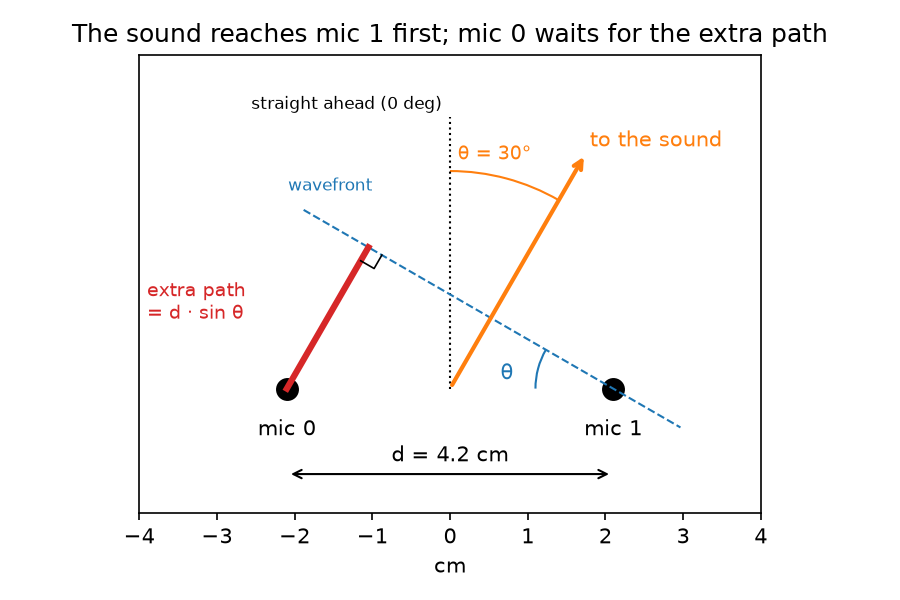
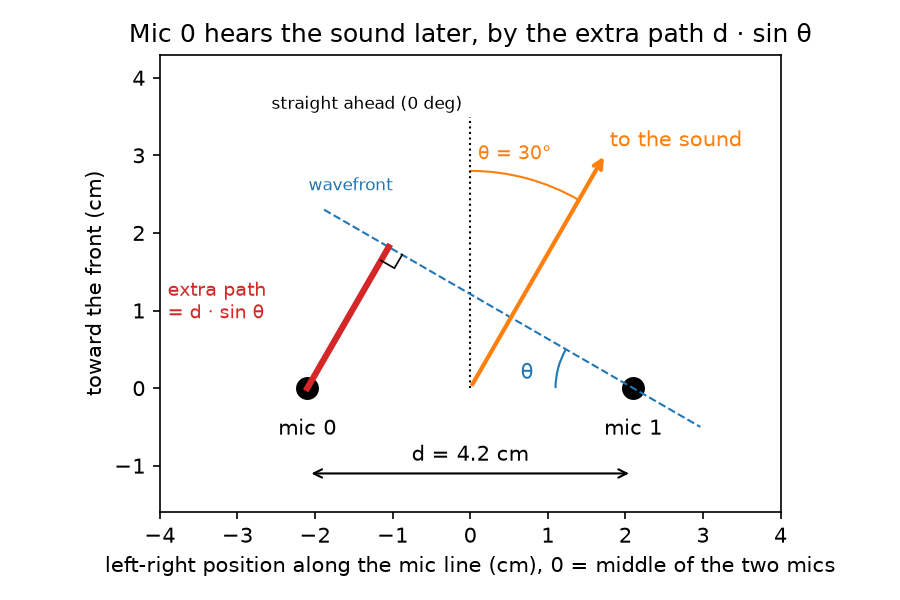
Put the key point in the step 1 figure titles
Aaron could not see what the sweep figure was saying. Titles now state
it: whole samples allow only 13 answers; error within ±60 deg drops from
8.3 to 0.5 deg (computed, not typed), worse toward the sides. Axis
labels say what x and y mean, ±60 deg is shaded, and the geometry figure
labels its axes as positions in cm. Section 4 heading states the result.

diff --git a/scripts/step1_two_mics.py b/scripts/step1_two_mics.py
@@ -69,12 +69,12 @@ def fig_geometry(path):
     corner = foot - s * direction
     ax.plot(*np.array([corner, corner + s * wave, foot + s * wave]).T, "k", lw=0.8)
     ax.text(-3.9, 0.9, "extra path\n= d · sin θ", color="C3", fontsize=9)
-    ax.set_title("The sound reaches mic 1 first; mic 0 waits for the extra path")
+    ax.set_title("Mic 0 hears the sound later, by the extra path d · sin θ")
     ax.set_aspect("equal")
     ax.set_xlim(-4, 4)
     ax.set_ylim(-1.6, 4.3)
-    ax.set_xlabel("cm")
-    ax.set_yticks([])
+    ax.set_xlabel("left-right position along the mic line (cm), 0 = middle of the two mics")
+    ax.set_ylabel("toward the front (cm)")
     fig.tight_layout()
     fig.savefig(path, dpi=150)
 
@@ -130,18 +130,30 @@ def fig_correlation(path):
 
 
 def fig_sweep(path, truth, whole, fine):
-    fig, (a, b) = plt.subplots(2, 1, figsize=(6, 6), sharex=True)
-    a.plot(truth, truth, "k:", label="perfect")
-    a.plot(truth, whole, "o-", ms=3, label="whole samples")
-    a.plot(truth, fine, "-", label="16x finer")
-    a.set_ylabel("estimated angle (deg)")
+    fig, (a, b) = plt.subplots(2, 1, figsize=(6, 7), sharex=True)
+    whole_label, fine_label = "delay every 20.8 us (whole samples)", "delay every 1.3 us (16x finer)"
+    a.plot(truth, truth, "k:", label="perfect answer")
+    a.plot(truth, whole, "o-", ms=3, label=whole_label)
+    a.plot(truth, fine, "-", label=fine_label)
+    a.set_ylabel("angle the mics report (deg)")
     a.legend(fontsize=8)
-    a.set_title("Two mics, 4.2 cm apart, 48 kHz, noise 20 dB below the sound")
-    b.plot(truth, np.abs(whole - truth), "o-", ms=3, label="whole samples")
-    b.plot(truth, np.abs(fine - truth), "-", label="16x finer")
-    b.set_xlabel("true angle (deg)")
+    a.set_title("Whole samples allow only 13 answers (the steps);\n16x finer follows the true angle",
+                fontsize=11)
+    for ax in (a, b):
+        ax.axvspan(-60, 60, color="grey", alpha=0.08)
+    b.plot(truth, np.abs(whole - truth), "o-", ms=3, label=whole_label)
+    b.plot(truth, np.abs(fine - truth), "-", label=fine_label)
+    b.text(0, 19, "within ±60 deg (grey)", ha="center", fontsize=8, color="grey")
+    b.set_xlabel("true angle of the sound, set in the simulation (deg)")
     b.set_ylabel("error (deg)")
-    b.legend(fontsize=8)
+    b.legend(fontsize=8, loc="upper center", bbox_to_anchor=(0.5, 0.84))
+    inner = np.abs(truth) <= 60
+    worst_whole = np.max(np.abs(whole - truth)[inner])
+    worst_fine = np.max(np.abs(fine - truth)[inner])
+    b.set_title(f"Error within ±60 deg: {worst_whole:.1f} → {worst_fine:.1f} deg; "
+                "both get worse toward the sides", fontsize=11)
+    fig.suptitle("Two mics, 4.2 cm apart, 48 kHz, noise 20 dB below the sound", fontsize=8,
+                 color="grey", y=0.995)
     fig.tight_layout()
     fig.savefig(path, dpi=150)
 

diff --git a/docs/blog/01-two-mics.md b/docs/blog/01-two-mics.md
@@ -62,11 +62,16 @@ GCC-PHAT 是改良版，全名 Generalized Cross-Correlation with Phase Transfor
 橘線是同一條分數曲線，補細 16 倍（在頻域補零，再做反轉換），每 1.3 微秒一點，
 最高點就落在真值上。尖峰兩旁的小波紋來自頻寬有限，不是聲音。
 
-## 4. 結果：從 -85 度掃到 +85 度
+## 4. 結果：補細把誤差從 8.3 度降到 0.5 度，但側面永遠最不準
 
-模擬一個噪音般的聲音（像樹葉沙沙聲），背景雜訊比聲音小 20 dB，每 1 度測一次：
+模擬一個噪音般的聲音（像樹葉沙沙聲），背景雜訊比聲音小 20 dB。
+我把聲源從 -85 度移到 +85 度，每 1 度測一次。橫軸是模擬時設定的真實角度。
 
 ![角度掃描](img/step1_sweep.png)
+
+- **上圖：麥克風回報的角度。** 藍色是階梯：時間差只能是 0、1、2… 個取樣點，
+  所以答案只有 13 種。真實角度在兩階之間時，答案卡在同一階。橘色補細後，幾乎貼著完美答案。
+- **下圖：誤差 = 回報角度 − 真實角度。** 灰色區域是 ±60 度。
 
 | 方法 | ±60 度內最大誤差 | 60 度以外 |
 |---|---|---|
